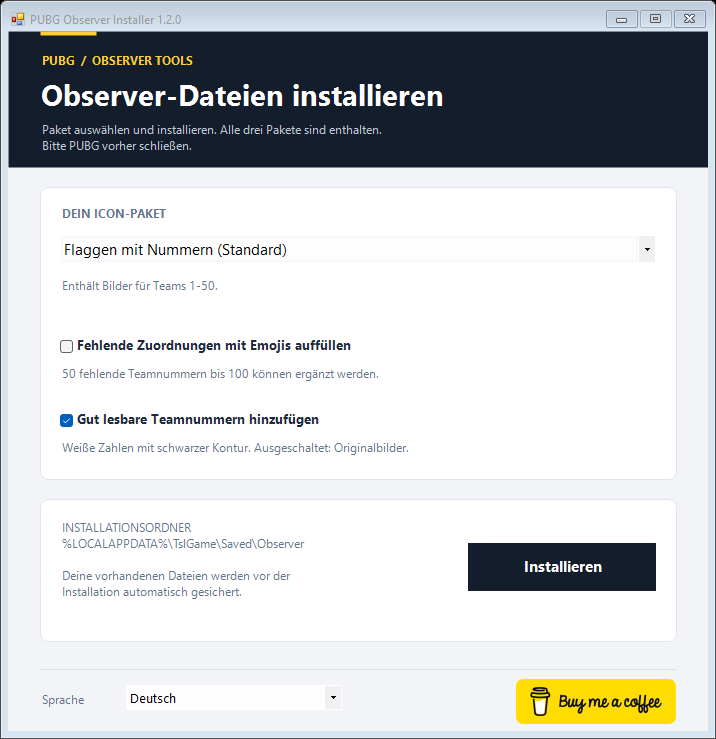
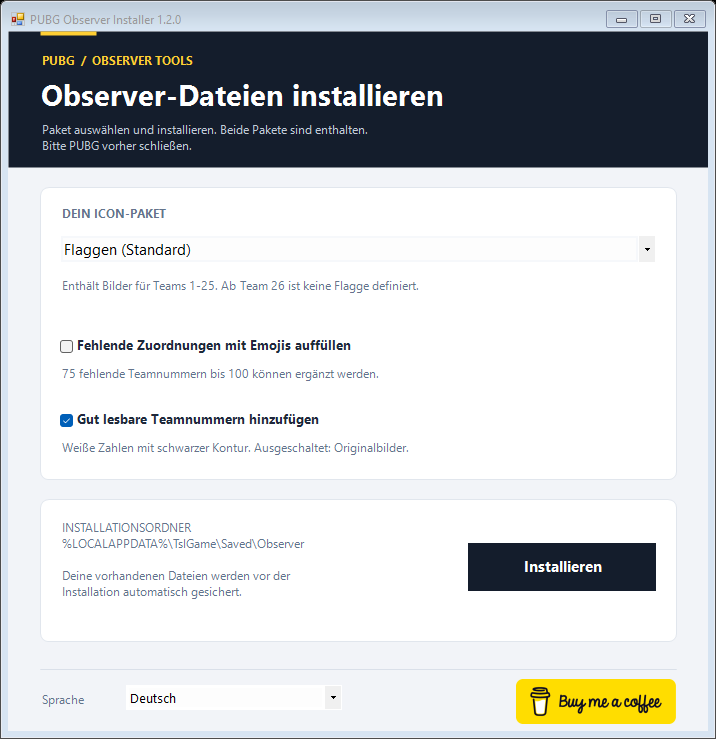
Remove redundant pre-numbered flag pack

diff --git a/src/Installer.cs b/src/Installer.cs
@@ -16,9 +16,9 @@ namespace PubgObserver
 {
     public static class Installer
     {
-        public static readonly string[] PackIds = { "flags-with-numbers", "emojis", "flags" };
-        public static string[] PackNames { get { return new[] { Language.Text("numbered"), Language.Text("emojis"), Language.Text("plain") }; } }
-        public static string[] PackCoverage { get { return new[] { Language.Text("coverage50"), Language.Text("coverage100"), Language.Text("coverage25") }; } }
+        public static readonly string[] PackIds = { "flags", "emojis" };
+        public static string[] PackNames { get { return new[] { Language.Text("plain"), Language.Text("emojis") }; } }
+        public static string[] PackCoverage { get { return new[] { Language.Text("coverage25"), Language.Text("coverage100") }; } }
 
         public static string InstallPack(int index, string target, bool fillWithEmojis = false, bool addNumbers = false)
         {
@@ -176,7 +176,7 @@ namespace PubgObserver
             packs.SelectedIndexChanged += delegate
             {
                 if (translating) return;
-                bool custom = packs.SelectedIndex == 3;
+                bool custom = packs.SelectedIndex == Installer.PackIds.Length;
                 source.Visible = browse.Visible = custom;
                 coverage.Visible = !custom;
                 coverage.Text = custom || packs.SelectedIndex < 0 ? "" : Installer.PackCoverage[packs.SelectedIndex];
@@ -248,7 +248,7 @@ namespace PubgObserver
                     packs.Items.AddRange(Installer.PackNames);
                     packs.Items.Add(Language.Text("custom"));
                     packs.SelectedIndex = selected;
-                    coverage.Text = selected < 0 || selected == 3 ? "" : Installer.PackCoverage[selected];
+                    coverage.Text = selected < 0 || selected == Installer.PackIds.Length ? "" : Installer.PackCoverage[selected];
                     status.Text = "";
                     UpdateFillOption();
                     fill.Checked = fill.Enabled && wasChecked;
@@ -287,8 +287,8 @@ namespace PubgObserver
             fillInfo.Text = "";
             try
             {
-                if (packs.SelectedIndex < 0 || (packs.SelectedIndex == 3 && String.IsNullOrWhiteSpace(source.Text))) return;
-                int missing = packs.SelectedIndex == 3 ? TeamCsv.MissingInFolder(source.Text) : TeamCsv.MissingInPack(packs.SelectedIndex);
+                if (packs.SelectedIndex < 0 || (packs.SelectedIndex == Installer.PackIds.Length && String.IsNullOrWhiteSpace(source.Text))) return;
+                int missing = packs.SelectedIndex == Installer.PackIds.Length ? TeamCsv.MissingInFolder(source.Text) : TeamCsv.MissingInPack(packs.SelectedIndex);
                 fill.Visible = fill.Enabled = missing > 0;
                 fillInfo.Text = missing > 0 ? String.Format(Language.Text("missing"), missing) : Language.Text("complete");
             }
@@ -299,7 +299,7 @@ namespace PubgObserver
         {
             try
             {
-                if (packs.SelectedIndex == 3 && String.IsNullOrWhiteSpace(source.Text)) throw new IOException(Language.Text("chooseFirst"));
+                if (packs.SelectedIndex == Installer.PackIds.Length && String.IsNullOrWhiteSpace(source.Text)) throw new IOException(Language.Text("chooseFirst"));
                 var running = Process.GetProcessesByName("TslGame");
                 bool gameRunning = running.Length > 0;
                 foreach (var process in running) process.Dispose();
@@ -307,7 +307,7 @@ namespace PubgObserver
                 install.Enabled = false;
                 UseWaitCursor = true;
                 bool fillMissing = fill.Enabled && fill.Checked;
-                string backup = packs.SelectedIndex == 3 ? Installer.Install(source.Text, Installer.DefaultTarget, fillMissing, numbers.Checked) : Installer.InstallPack(packs.SelectedIndex, Installer.DefaultTarget, fillMissing, numbers.Checked);
+                string backup = packs.SelectedIndex == Installer.PackIds.Length ? Installer.Install(source.Text, Installer.DefaultTarget, fillMissing, numbers.Checked) : Installer.InstallPack(packs.SelectedIndex, Installer.DefaultTarget, fillMissing, numbers.Checked);
                 status.Text = Language.Text("success");
                 MessageBox.Show(this, Language.Text("installed") + (backup == null ? "" : "\n\n" + Language.Text("backup") + "\n" + backup), Language.Text("done"), MessageBoxButtons.OK, MessageBoxIcon.Information);
             }

diff --git a/src/Language.cs b/src/Language.cs
@@ -19,12 +19,10 @@ namespace PubgObserver
         {
             {"title", new[] {"Install observer files", "Observer-Dateien installieren"}},
             {"packLabel", new[] {"CHOOSE YOUR ICON PACK", "DEIN ICON-PAKET"}},
-            {"intro", new[] {"Choose a pack and install. All three packs are included.\nPlease close PUBG first.", "Paket auswählen und installieren. Alle drei Pakete sind enthalten.\nBitte PUBG vorher schließen."}},
-            {"numbered", new[] {"Flags with numbers (default)", "Flaggen mit Nummern (Standard)"}},
+            {"intro", new[] {"Choose a pack and install. Both packs are included.\nPlease close PUBG first.", "Paket auswählen und installieren. Beide Pakete sind enthalten.\nBitte PUBG vorher schließen."}},
             {"emojis", new[] {"Emojis", "Emojis"}},
-            {"plain", new[] {"Flags without numbers", "Flaggen ohne Nummern"}},
+            {"plain", new[] {"Flags (default)", "Flaggen (Standard)"}},
             {"custom", new[] {"Custom Observer folder…", "Eigener Observer-Ordner…"}},
-            {"coverage50", new[] {"Includes images for teams 1-50.", "Enthält Bilder für Teams 1-50."}},
             {"coverage100", new[] {"Includes images for teams 1-100.", "Enthält Bilder für Teams 1-100."}},
             {"coverage25", new[] {"Includes images for teams 1-25. No flag is assigned from team 26 onward.", "Enthält Bilder für Teams 1-25. Ab Team 26 ist keine Flagge definiert."}},
             {"browse", new[] {"Browse…", "Auswählen…"}},

diff --git a/README.md b/README.md
@@ -4,24 +4,23 @@ Observer-Dateien für PUBG mit wenigen Klicks installieren: Paket wählen, **Ins
 
 **[Windows-Installer herunterladen](https://github.com/FloErwerth/pubg-observerfiles/releases/latest/download/PUBG-Observer-Installer.exe)** · [Alle Releases](https://github.com/FloErwerth/pubg-observerfiles/releases) · [Problem melden](https://github.com/FloErwerth/pubg-observerfiles/issues)
 
-![Installer mit vorausgewählten Flaggen mit Nummern](docs/images/installer-0.png)
+![Installer mit vorausgewähltem Flaggen-Paket](docs/images/installer-0.png)
 
 ## Enthaltene Pakete
 
 | Auswahl | Inhalt |
 | --- | --- |
-| **Flaggen mit Nummern (Standard)** | 50 Team-Icons |
+| **Flaggen (Standard)** | 25 Team-Icons, Teams 1-25 |
 | Emojis | 100 Team-Icons |
-| Flaggen ohne Nummern | 25 Team-Icons, Teams 1-25 |
 | Eigener Observer-Ordner | Eigenes Paket mit TeamInfo.csv und TeamIcon |
 
-Alle drei Pakete sind direkt in der EXE enthalten. Es ist kein Internetzugang und kein Google-Drive-Login erforderlich.
+Beide Pakete sind direkt in der EXE enthalten. Nummern werden über die standardmäßig aktive Option hinzugefügt; ein separates Paket mit fest eingebrannten Nummern ist nicht mehr enthalten. Es ist kein Internetzugang und kein Google-Drive-Login erforderlich.
 
 <details>
 <summary>Weitere Ansichten</summary>
 
 ![Emoji-Paket](docs/images/installer-1.png)
-![Flaggen ohne Nummern](docs/images/installer-2.png)
+![Eigener Observer-Ordner](docs/images/installer-2.png)
 
 </details>
 
@@ -30,7 +29,7 @@ Alle drei Pakete sind direkt in der EXE enthalten. Es ist kein Internetzugang un
 1. Die EXE aus den [Releases](https://github.com/FloErwerth/pubg-observerfiles/releases/latest) herunterladen. Die Source-Code-Archive sind für Entwickler.
 2. PUBG schließen.
 3. `PUBG-Observer-Installer.exe` mit deinem normalen Windows-Benutzerkonto starten.
-4. Das gewünschte Paket auswählen. **Flaggen mit Nummern** ist vorausgewählt.
+4. Das gewünschte Paket auswählen. **Flaggen** ist vorausgewählt, die Nummerierungsoption ist aktiv.
 5. Optional **Fehlende Zuordnungen mit Emojis auffüllen** aktivieren, um fehlende Teams bis 100 zu ergänzen.
 6. **Installieren** anklicken und auf die Erfolgsmeldung warten. Danach PUBG starten.
 
@@ -50,8 +49,7 @@ Die Vorschau prüft die Lesbarkeit bei kleinen Bildgrößen; die konkrete Skalie
 
 Die Checkbox erscheint, wenn die ausgewählte CSV nicht alle Teamnummern 1 bis 100 enthält. Sie ist standardmäßig ausgeschaltet und wird beim Wechsel des Pakets zurückgesetzt. Die Prüfung funktioniert auch bei einem eigenen Observer-Ordner.
 
-- Flaggen mit Nummern: optional Emojis für Teams 51-100.
-- Flaggen ohne Nummern: optional Emojis für Teams 26-100.
+- Flaggen: optional Emojis für Teams 26-100.
 - Emojis: bereits vollständig, deshalb keine Checkbox.
 - Eigene CSV: auch Lücken mitten in der Teamnummernfolge werden ergänzt.
 
@@ -99,11 +97,11 @@ In Windows PowerShell oder PowerShell 7:
 
 Der Build nutzt den .NET-Framework-Compiler von Windows. Die Ausgabe liegt unter `dist/`; nur EXE und `SHA256SUMS.txt` werden für den Release benötigt. Die ZIP-Dateien sind Zwischenprodukte. `-OutputDirectory` erlaubt einen separaten Build-Ordner, falls eine bereits gestartete EXE die Standardausgabe sperrt. Test- und Render-Skript akzeptieren dazu `-InstallerPath`.
 
-Die Tests prüfen Erstinstallation, Backup, Ersetzung, ungueltige Quellen, die SHA-256-Werte aller 178 Paketdateien, Teamnummern und Bildverweise sowie die vorausgewählte Auswahl. Alle Installationen erfolgen dabei in separaten temporaeren Testordnern. Ein Funktionstest innerhalb von PUBG steht aus. Die Ansichten werden direkt aus der Windows-Forms-Oberflaeche gerendert.
+Die Tests prüfen Erstinstallation, Backup, Ersetzung, ungueltige Quellen, die SHA-256-Werte aller 127 Paketdateien, Teamnummern und Bildverweise sowie die vorausgewählte Auswahl. Alle Installationen erfolgen dabei in separaten temporaeren Testordnern. Ein Funktionstest innerhalb von PUBG steht aus. Die Ansichten werden direkt aus der Windows-Forms-Oberflaeche gerendert.
 
 ## Teams außerhalb des Pakets
 
-Die Zuordnung erfolgt ueber `TeamNumber` in der CSV. Das Paket ohne Nummern definiert Teams 1-25, die nummerierten Flaggen Teams 1-50 und Emojis Teams 1-100. Fuer weitere Teamnummern ist darin kein eigenes Bild hinterlegt. Team 24 (Italien) und Team 25 (Niederlande) wurden für dieses Projekt ergänzt; ihre PNGs lassen sich mit `scripts/generate-extra-flags.ps1` erneut erzeugen.
+Die Zuordnung erfolgt über `TeamNumber` in der CSV. Flaggen definiert Teams 1-25 und Emojis Teams 1-100. Für weitere Teamnummern ist ohne Emoji-Ergänzung kein eigenes Bild hinterlegt. Team 24 (Italien) und Team 25 (Niederlande) wurden für dieses Projekt ergänzt; ihre PNGs lassen sich mit `scripts/generate-extra-flags.ps1` erneut erzeugen.
 
 PUBG dokumentiert die normalen Teamnummern im Killfeed in den [Patch Notes 26.1](https://pubg.com/en/news/6717?category=patch_notes). Ein Rückfall auf diese Standardanzeige bei nicht definierten Teams ist plausibel, wurde aber für die aktuelle Spielversion nicht im Spiel verifiziert und ist in den gefundenen Quellen nicht ausdrücklich beschrieben. Ein fehlender CSV-Eintrag und ein CSV-Verweis auf eine fehlende Bilddatei sind unterschiedliche Faelle; Letzteres wird in den enthaltenen Paketen durch die Tests ausgeschlossen.
 

diff --git a/docs/releases/v1.2.0.md b/docs/releases/v1.2.0.md
@@ -1,9 +1,11 @@
 # PUBG Observer Installer 1.2.0
 
+- Das separate Paket **Flaggen mit Nummern** wurde entfernt. Verfügbar sind **Flaggen (Standard)**, **Emojis** und eigene Observer-Ordner. Nummern werden über die neue Option hinzugefügt.
+
 - Neue Option **Gut lesbare Teamnummern hinzufügen**, standardmäßig aktiv und abschaltbar.
 - Weiße, kräftige Zahlen mit schwarzer Kontur ohne Hintergrundfläche für Flaggen und Emojis.
 - Teamnummern stammen aus der CSV und gelten auch für optional ergänzte Emojis und eigene Pakete.
 - Originaldateien bleiben erhalten; bei deaktivierter Option werden die Originalbilder installiert. Bereits vorhandene Zahlen in Originalbildern bleiben dann bestehen.
-- Die Nummerierung und Zuordnung wurden für alle drei auf 100 Teams aufgefüllten Pakete getestet, inklusive Originalschutz und geteilter Quellbilder.
+- Die Nummerierung und Zuordnung wurden für beide auf 100 Teams aufgefüllten Pakete getestet, inklusive Originalschutz und geteilter Quellbilder.
 
 Die Darstellung in PUBG steht als In-Game-Test aus. Die zuvor gemeldete Defender-Erkennung ist weiterhin ungeklärt; dieser Funktions-Build ist keine bestätigte Behebung und keine Malware-Freigabe.

diff --git a/THIRD_PARTY_NOTICES.md b/THIRD_PARTY_NOTICES.md
@@ -6,9 +6,8 @@ Die folgenden Pakete wurden vom Projektinhaber als lokale Downloads bereitgestel
 
 | Paket | Urspruenglicher Ordner | Inhalt | Herkunft und Lizenz |
 | --- | --- | --- | --- |
-| Flaggen mit Nummern | observerfiles-flags-with-numbers | Teaminfo.csv und 50 PNGs | Nicht belegt |
 | Emojis | observerfiles-emojis | Teaminfo.csv und 100 PNGs | Nicht belegt |
-| Flaggen ohne Nummern | observerfiles-flags | CSV erweitert; 23 Original-PNGs plus 2 Projektgrafiken | Originaldateien: nicht belegt |
+| Flaggen | observerfiles-flags | CSV erweitert; 23 Original-PNGs plus 2 Projektgrafiken | Originaldateien: nicht belegt |
 
 Den Downloads lagen keine Lizenztexte oder Erstellerangaben bei. Die urspruenglichen Google-Drive-Links wurden nicht bereitgestellt. Die MIT-Lizenz des Installers erstreckt sich daher ausdruecklich nicht auf diese Dateien. Eine Erlaubnis zur Weitergabe dieser Pakete konnte im Rahmen der Release-Vorbereitung nicht bestaetigt werden.
 
